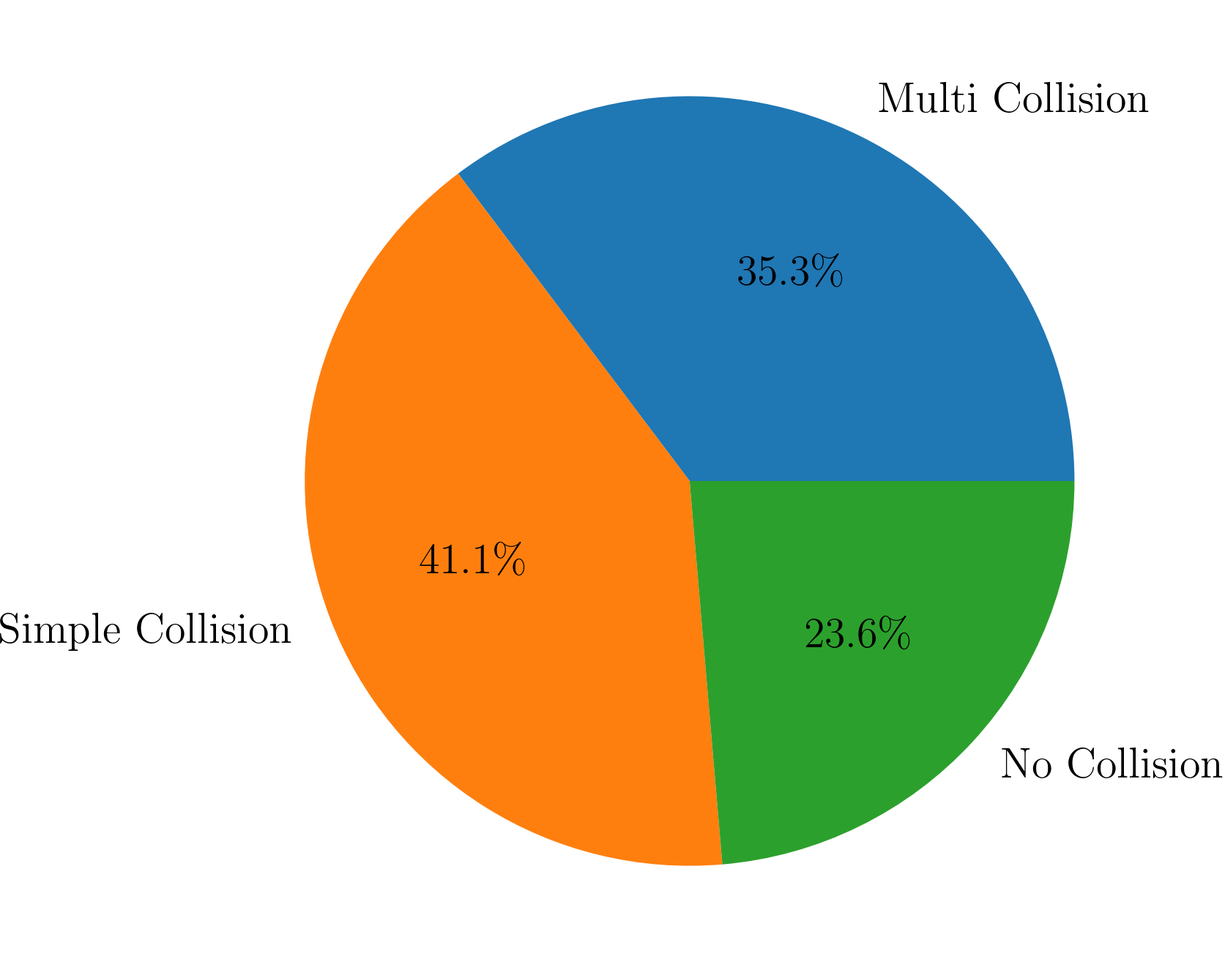
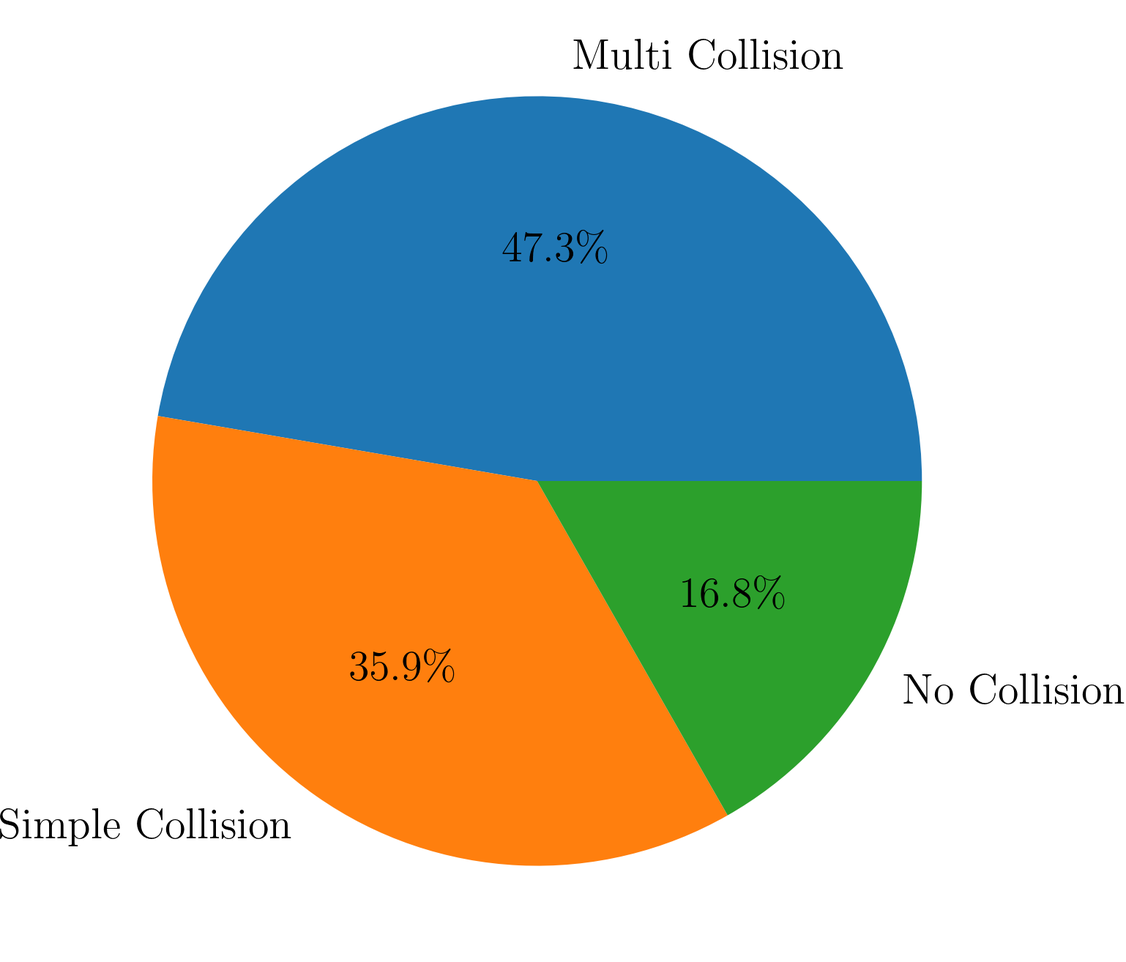
fix by-collision chart to operate on our pre-processed dataset. V1 of paper for ITSC submission complete.

diff --git a/paper.tex b/paper.tex
@@ -74,7 +74,6 @@ A Pipeline for Assembling Collision and Near-Collision Dashcam Footage Datasets
 
 
 %%%%%%%%%%%%%%%%%%%%%%%%%%%%%%%%%%%%%%%%%%%%%%%%%%%%%%%%%%%%%%%%%%%%%%%%%%%%%%%%
-\todo{Overall TODO: fix awkward sentences, grammatical issues. }
 \begin{abstract}
 
 Over the last decade, emphasis has been made on the need for autonomous vehicles to reduce road collisions and reckless driving. However, research into collision prediction has been slowed by the lack of egocentric collision-oriented datasets. Currently, this type of data is often created through computer generated scenarios \cite{Kim_Lee_Hwang_Suh_2019} due to the dangerous and costly nature of road collisions and data collection equipment. We provide a pipeline to assemble datasets of real vehicle collision events that have been published online to various video repositories. We specifically focus on collecting footage of collisions recorded from front-mounted dashcam video cameras and demonstrate the importance of learning from complex road scenes and conditions globally rather than in one region. Further, we present a small prototype dataset that we have produced using our pipeline which includes egocentric dashcam vehicle footage from all over the world, subject to varying visibilities, varying weather conditions, and varying settings.
@@ -92,15 +91,17 @@ This has led to the creation of many online communities to share videos of these
 We propose that this egocentric dashcam video stream can be leveraged by computer vision systems to act as an affordable and commonplace sensor for automated collision prediction. 
 
 In this paper we present a software pipeline to facilitate the collection, processing and annotation of egocentric dashcam videos from various online video repositories to produce datasets that can be used to train deep dashcam collision prediction models.
-We aim to generate datasets that are not constrained to any regions or countries but rather provide location-agnostic data that is representative of general, global road and vehicle conditions. \todo{Backup this claim with the location histogram, perhaps in the experiment section. If we put it there, we should reference it from here.}
+We aim to generate datasets that are not constrained to any regions or countries but rather provide location-agnostic data that is representative of general, global road and vehicle conditions.
 These datasets will also be collision-oriented as the majority of these videos contain collisions for people's viewing.
 Current autonomous vehicle data collection techniques typically require astronomically expensive hardware and equipment and, consequently, are rarely involved in collisions and intentionally not put in high risk environments that may lead to a collision.
-This is the data we hope to capture by taking advantage of existing videos of non-artificial collisions. \todo{Add sentence explaining we don't care about video resolution as long as collisions and agents are clear in the video. Further support this by the fact that we aren't using the final dense classification layer in the VGG, which in turns allows us to use videos of any resolution. }
+Thus, our goal is to capture this data by taking advantage of existing videos of real-world collisions. 
 
 The pipeline uses web-scraping techniques to fetch the video data from these websites, along with a set of video metadata, describing the video's contents.
-We use this data, in combination with the manually annotated data in order to create the collision dataset.
+We use this data, in combination with the manually annotated data in order to create a prototype collision dataset of dashcam video samples.
 This combination allows us to take advantage of the wide variety of videos available on the internet, while still having reliable data that has been curated manually.
-As part of this data, we identify participants and bystanders, both known as agents. Participants are objects that are involved in a collision identified in the metadata, while bystanders are uninvolved objects.
+As part of this data, we identify participants and bystanders, both known as agents. Participants are objects that are involved in a collision identified in the metadata, while bystanders are uninvolved objects. 
+
+It is worthwhile to note that in collecting samples for our prototype dataset, we do not impose a minimum video resolution threshold. We mitigate this by only collecting samples which contain clearly identifiable agents. This allows us to maximize the amount of data that we can feasibly include in our dataset. 
 
 %%%%%%%%%%%%%%%%%%%%%%%%%%%%%%%%%%%%%%%%%%%%%%%%%%%%%%%%%%%%%%%%%%%%%%%%%%%%%%%%
 \section{RELATED WORK}
@@ -165,8 +166,8 @@ This software module is encapsulated as a library and can be reused by importing
 
 \subsection{Annotation}
 
-In addition to collection and preprocessing, a core component of our pipeline is a GUI tool that facilitates the manual annotation of the dashcam videos, and quick manual filtering of non-dashcam and irrelevant videos. Following Chan et al.\cite{chan2016anticipating}, if a collision occurs we provide tools to annotate the frame the collision occurs, and bounding boxes to localize, identify and track agents in the video segment. Object tracking bounding boxes can be linearly interpolated from manual start and end points to improve ease of labelling. We also save the video resolution at which the video was annotated to ensure bounding box annotations can always be scaled to fit any variable download resolutions. For long-form videos that may contain multiple collision events or irrelevant video segments, such as compilation videos or videos with substantial editing and transitions, we provide a video clipping feature to demarcate the collision events from which we extract and generate distinct data points. 
-Each video segment will eventually become a metadata item. 
+In addition to collection and preprocessing, a core component of our pipeline is a GUI tool that facilitates the manual annotation of the dashcam videos, and quick manual filtering of non-dashcam and irrelevant videos. Following Chan et al.\cite{chan2016anticipating}, if a collision occurs, we provide tools to annotate the frame where the collision occurs and bounding boxes to localize, identify and track agents in the video segment. Object tracking bounding boxes can be linearly interpolated from manual start and end points to improve ease of labelling. We also save the video resolution at which the video was annotated to ensure bounding box annotations can always be scaled to fit variable download resolutions. For long-form videos that may contain multiple collision events or irrelevant video segments, such as compilation videos or videos with substantial editing and transitions, we provide a video clipping feature to demarcate the collision events from which we extract and generate distinct data points. 
+Each video segment will eventually become a metadata item. Figure \ref{fig:example_gui_tool-png} shows an example of the GUI tool in usage.
 
 \subsection{Metadata}
 After all of the previous steps have been completed, the pipeline is able to produce a complete metadata object.
@@ -198,7 +199,14 @@ There are many fields in the metadata object (as can be seen in Figure \ref{meta
   \end{itemize}
 \end{itemize}
 
-\begin{figure}
+\begin{figure}[htbp]
+	\centering
+	\includegraphics[width=0.46\textwidth]{example_gui_tool.png}
+	\caption{GUI tool to facilitate annotation}
+	\label{fig:example_gui_tool-png}
+\end{figure}
+
+\begin{figure}[htbp]
   \begin{lstlisting}[language=json,xleftmargin=5mm]
 {
   "description":"",
@@ -235,131 +243,21 @@ There are many fields in the metadata object (as can be seen in Figure \ref{meta
     \label{metadata_example}
 \end{figure}
 
-\begin{figure}[htbp]
-		\centering
-    \includegraphics[width=0.46\textwidth]{example_gui_tool.png}
-		\caption{GUI tool to facilitate annotation}
-		\label{fig:example_gui_tool-png}
-\end{figure}
-
 %%%%%%%%%%%%%%%%%%%%%%%%%%%%%%%%%%%%%%%%%%%%%%%%%%%%%%%%%%%%%%%%%%%%%%%%%%%%%%%%
 \section{EXPERIMENT}
 
-In order to evaluate the importance of acquiring data from multiple geographical locations and under varying driving conditions around the world, we have manually collected a dataset of 223 video clips on which we will test the existing collision anticipation model, DSARNN. This dataset is comprised of 97 positive and 126 negative videos. Most of these videos represent road scenes from North America, Europe and Russia which have noticeably different characteristics than those in Taiwan. To prepare our data we follow the steps outlined by Chan et. al \cite{chan2016anticipating}. Namely, we trim videos such that they are 5 seconds long, sampled at 20 FPS, and the collision occurs at frame 90. This trimming and sampling functionality is provided within the pipeline configuration \texttt{smallcorgi\_exporter.yml}. In our experiments we train the DSARNN model on features produced by running a pre-trained VGG on each full frame and the cropped objects within the frame \cite{DBLP:journals/corr/SimonyanZ14a}. This is denoted VGG+RNN+F+D-con. in the original publication. We note that this data includes manually annotated bounding boxes, so there will be no error imposed by using automated vehicle detection and localization models.
-
-In our first experiment we merge our dataset with the dataset provided by Chan et. al. We augment their training set with 77 positives and 106 negatives, and their testing set with 20 positives and 20 negatives. We use the same training procedure as Chan et. al, namely we train for 40 epochs with a learning rate of $10^{-4}$ and a batch size of 10. Although our data contribution here is relatively small, we observe a mean time-to-collision of 2.198s at 80\% recall which is very similar to the existing results from Chan et. al. However, we observe an average precision of 66.22\% which is appreciably lower than the 73.53\% average precision reported by Chan et. al. \cite{chan2016anticipating}
-
-In our second experiment we use the provided pre-trained DSARNN model and test the performance on our entire dataset of 223 videos. We see very poor prediction performance at an average precision of 34.29\%, and in Figure \ref{fig:pr_curve} we observe poor precision at all recall values.
-
-\begin{figure}[htbp]
-		\centering
-		\includegraphics[width=0.5\textwidth]{prcurve.png}
-		\caption{Pre-trained DSARNN Precision-Recall curve on prototype dataset}
-		\label{fig:pr_curve}
-\end{figure}
-
-These experiments seem to support the notion that in order for a collision prediction model to be generally effective in practice, it must be trained on collisions and complex roads scenes from varying regions and road conditions around the world, which is what we hope to achieve with this data collection pipeline.
-
+\subsection{Prototype Dataset}
+\label{section-prototype-dataset}
+In order to evaluate the importance of acquiring data from multiple geographical locations and under varying driving conditions around the world, we have built a prototype dataset of 223 video clips using our pipeline on which we will test the existing collision anticipation model, DSARNN. This dataset is comprised of 97 positive and 126 negative videos. Most of these videos represent road scenes from North America, Europe and Russia which have noticeably different characteristics than those in Taiwan. To prepare our data we follow the steps outlined by Chan et. al \cite{chan2016anticipating}. Namely, we trim videos such that they are 5 seconds long, sampled at 20 FPS, and the collision occurs at frame 90. This trimming and sampling functionality is provided within the pipeline configuration \texttt{smallcorgi\_exporter.yml}. In our experiments we train the DSARNN model on features produced by running a pre-trained VGG on each full frame and the cropped objects within the frame \cite{DBLP:journals/corr/SimonyanZ14a}. This is denoted VGG+RNN+F+D-con. in the original publication. We note that this data includes manually annotated bounding boxes, so there will be no error imposed by using automated vehicle detection and localization models.
 
 \pgfplotstableread[col sep=comma]{by-classes.csv}\byclass
 \pgfplotstableread[col sep=comma]{by-actors.csv}\byactors
 \pgfplotstableread[col sep=comma]{by-agents.csv}\byagents
 \pgfplotstableread[col sep=comma]{by-duration.csv}\byduration
 
-We have aggregated some statistics about our dataset to help clients understand various distributions in the data. While these distributions may be representative of online collision footage, they are not necessarily representative of real world collisions. 
+We have aggregated some statistics about our database and dataset to help clients understand the pertinent distributions in the data. While these distributions may be representative of online collision footage, they are not necessarily representative of real world collisions. Note that the total number of videos represented by the histograms is a superset of the number of videos in the final prototype dataset as it includes videos that were ultimately unsuitable for our collision prediction experiments. Thus we denote this superset as the \textit{pre-processed prototype dataset}.
 
-\begin{figure}[htbp]
-		\centering
-    \begin{tikzpicture}
-    \begin{axis}[
-      title={Objects by class},
-      ylabel={Frequency (\# of objects)},
-      ymin=-50,
-      ymax=1800,
-      xtick=data,
-      xticklabels from table={\byclass}{X},
-      xticklabel style={rotate=50,anchor=east,yshift=-2mm}
-    ]
-    \addplot[fill, ybar] table [x expr=\coordindex, y={Y}] \byclass;
-    \end{axis}
-    \end{tikzpicture}
-		\caption{Distribution of videos in dataset by object class}
-		\label{fig:obj-by-class}
-\end{figure}
-
-\begin{figure}[htbp]
-		\centering
-    \begin{tikzpicture}
-    \begin{axis}[
-      title={Videos by participant},
-      xlabel={Number of participants},
-      ylabel={Frequency (\# of videos)},
-      ymin=-5,
-      ymax=175,
-      xtick=data,
-      xticklabels from table={\byactors}{X}
-    ]
-    \addplot[fill, ybar] table [x expr=\coordindex, y={Y}] \byactors;
-    \end{axis}
-    \end{tikzpicture}
-		\caption{Distribution of videos in dataset by number of participants}
-		\label{fig:vids-by-participant}
-\end{figure}
-
-\begin{figure}[htbp]
-		\centering
-    \begin{tikzpicture}
-    \begin{axis}[
-      title={Videos by agents},
-      xlabel={Number of agents},
-      ylabel={Frequency (\# of videos)},
-      ymin=-10,
-      ymax=270,
-      xtick=data,
-      xticklabels from table={\byagents}{X}
-    ]
-    \addplot[fill, ybar] table [x expr=\coordindex, y={Y}] \byagents;
-    \end{axis}
-    \end{tikzpicture}
-		\caption{Distribution of videos in dataset by number of agents}
-		\label{fig:vids-by-agents}
-\end{figure}
-
-\begin{figure}[htbp]
-		\centering
-    \begin{tikzpicture}
-    \begin{axis}[
-      title={Videos by duration},
-      xlabel={Duration (in frames)},
-      ylabel={Frequency (\# of videos)},
-      xtick=data,
-      ymin=-5,
-      ymax=130,
-      xticklabels from table={\byduration}{X},
-      xticklabel style = {rotate=45,anchor=east,yshift=-2mm}
-    ]
-    \addplot[fill, ybar] table [x expr=\coordindex, y={Y}] \byduration;
-    \end{axis}
-    \end{tikzpicture}
-		\caption{Distribution of videos in dataset by duration}
-		\label{fig:vids-by-duration}
-\end{figure}
-
-\begin{figure}[htbp]
-		\centering
-    \includegraphics[width=0.46\textwidth,trim={0 1cm 0 0.5cm},clip]{by-collision.png}
-		\caption{Distribution of videos in database by collision type}
-		\label{fig:vids-by-collision}
-\end{figure}
-
-\begin{figure}[htbp]
-		\centering
-    \includegraphics[width=0.46\textwidth,trim={0 1cm 0 1cm},clip]{by-camera.png}
-		\caption{Distribution of videos in database by camera type}
-		\label{fig:vids-by-camera}
-\end{figure}
-
-\begin{table}[htbp]
+\begin{table}[!h]
 	\caption{Distribution of videos in database by download source}
 	\label{vids-by-source}
 	\begin{center}
@@ -367,7 +265,7 @@ We have aggregated some statistics about our dataset to help clients understand 
 			\hline
 			Download source & Percentage of videos \\
 			\hline
-			youtube.com & 98.40\% \\
+			youtube.com & \textbf{98.40\%} \\
 			\hline
 			imgur.com & 0.85\% \\
 			\hline
@@ -379,8 +277,8 @@ We have aggregated some statistics about our dataset to help clients understand 
 	\end{center}
 \end{table}
 
-\begin{table}[htbp]
-	\caption{Distribution of videos in dataset by geographical region}
+\begin{table}[!h]
+	\caption{Distribution of videos in pre-processed prototype dataset by geographical region}
 	\label{vids-by-region}
 	\begin{center}
 		\begin{tabular}{|c|c|}
@@ -401,14 +299,125 @@ We have aggregated some statistics about our dataset to help clients understand 
 	\end{center}
 \end{table}
 
-\todo{Organize figures better, crop out excess whitespace, resize them and place them within the column of the page.}
-\todo{Explain the "other" category in the class histogram. These are stationary/non-vehicular objects.}
-\todo{Explain the distinctions between the different types of collisions in the collision chart.}
-\todo{Add Figure 11 (table) showing videos by source (98.4\% YouTube, 0.47\% gfycat.com, 0.85\% imgur.com, 0.28\% streamable.com)}
-\todo{Move Figures 5-11 to Methodology - Video Collection.}
-\todo{Reduce caption size for each figure.}
-\todo{Add a paragraph explaining the key characteristics of Figures 5-11.}
+From Table \ref{vids-by-source}, it is clear that the vast majority of videos that have been processed through our pipeline and cataloged in our database were obtained from YouTube. It can also be seen that the YouTube and Reddit downloaders are capable of scraping various other online repositories such as Imgur, Gfycat and Streamable. 
 
+From Table \ref{vids-by-region}, we can see that our prototype dataset consists of dashcam footage from a reasonably well-balanced distribution of geographical regions. This also implies a diverse representation in driving conditions due to the various differences in climate and infrastructure amongst these regions.
+
+\begin{figure}[!h]
+	\centering
+	\begin{tikzpicture}
+	\begin{axis}[
+	title={Objects by class},
+	ylabel={Frequency (\# of objects)},
+	ymin=-50,
+	ymax=1800,
+	xtick=data,
+	xticklabels from table={\byclass}{X},
+	xticklabel style={rotate=50,anchor=east,yshift=-2mm}
+	]
+	\addplot[fill, ybar] table [x expr=\coordindex, y={Y}] \byclass;
+	\end{axis}
+	\end{tikzpicture}
+	\caption{Distribution of videos in pre-processed prototype dataset by object class}
+	\label{fig:obj-by-class}
+\end{figure}
+
+\begin{figure}[!h]
+	\centering
+	\begin{tikzpicture}
+	\begin{axis}[
+	title={Videos by participant},
+	xlabel={Number of participants},
+	ylabel={Frequency (\# of videos)},
+    ymin=-5,
+	ymax=175,
+	xtick=data,
+	xticklabels from table={\byactors}{X}
+	]
+	\addplot[fill, ybar] table [x expr=\coordindex, y={Y}] \byactors;
+	\end{axis}
+	\end{tikzpicture}
+	\caption{Distribution of videos in pre-processed prototype dataset by number of participants}
+	\label{fig:vids-by-participant}
+\end{figure}
+
+In Figure \ref{fig:obj-by-class}, we see that there are several types of objects which have been identified as agents in our prototype dataset. Among these, the most common are motorized vehicles and pedestrians as one would intuitively expect. A number of stationary, inanimate objects such as industrial machinery and poles were noteworthy as they were involved in collisions. These have been aggregated into the "other" category.
+
+In Figure \ref{fig:vids-by-participant}, it can be seen that there is a wide range in the distribution of the number of participants in each sample of our dataset. We also observe that it is more common for no collisions to occur than any particular non-zero number of participants to be present in a sample.
+
+In Figure \ref{fig:vids-by-agents}, we observe that it is most common for samples to contain either 2 agents or no agents at all. This is implied by the fact that videos with only 1 agent cannot contain a collision. These are less likely to be interesting and in turn, scraped by our pipeline.
+
+\begin{figure}[!h]
+	\centering
+	\begin{tikzpicture}
+	\begin{axis}[
+	title={Videos by agents},
+	xlabel={Number of agents},
+	ylabel={Frequency (\# of videos)},
+    ymin=-10,
+	ymax=270,
+	xtick=data,
+	xticklabels from table={\byagents}{X}
+	]
+	\addplot[fill, ybar] table [x expr=\coordindex, y={Y}] \byagents;
+	\end{axis}
+	\end{tikzpicture}
+	\caption{Distribution of videos in prototype dataset by number of agents}
+	\label{fig:vids-by-agents}
+\end{figure}
+
+In Figure \ref{fig:vids-by-duration}, we can clearly see that there is a roughly standard normal distribution in the number of videos by duration, with a mean, median and mode at around 352 frames. This suggests that the pipeline favors videos which tend to be shorter on average. At an average video framerate of 30 FPS, this equates to a mean duration of just over 11 seconds. In section \ref{section-prototype-dataset}, it was mentioned that clips were cropped to 5 seconds in the prototype dataset, therefore this is a favorable characteristic as it helps reduce the amount of necessary processing.
+
+\begin{figure}[!h]
+	\centering
+	\begin{tikzpicture}
+	\begin{axis}[
+	title={Videos by duration},
+	xlabel={Duration (in frames)},
+	ylabel={Frequency (\# of videos)},
+	xtick=data,
+    ymin=-5,
+	ymax=130,
+	xticklabels from table={\byduration}{X},
+	xticklabel style = {rotate=45,anchor=east,yshift=-2mm}
+	]
+	\addplot[fill, ybar] table [x expr=\coordindex, y={Y}] \byduration;
+	\end{axis}
+	\end{tikzpicture}
+	\caption{Distribution of videos in prototype dataset by duration}
+	\label{fig:vids-by-duration}
+\end{figure}
+
+Figures \ref{fig:vids-by-collision} and \ref{fig:vids-by-camera} outline key characteristics about our database at large. Figure \ref{fig:vids-by-collision} shows that from the video repositories we targeted, we were able to obtain a relatively well-balanced distribution of collision types in our data. Here, the distinction between 'Simple Collision' and 'Multi Collision' is that the former involves 2 participants and the latter involves more than 2 participants. Figure \ref{fig:vids-by-camera} shows that the majority of the videos the pipeline scraped were indeed dashcam videos. This suggests that the pipeline is quite effective in identifying suitable candidates for a dashcam collision dataset.
+
+\begin{figure}[!h]
+	\centering
+	\includegraphics[width=0.46\textwidth,trim={0 1cm 0 0},clip]{by-collision.png}
+	\caption{Distribution of videos in database by collision type}
+	\label{fig:vids-by-collision}
+\end{figure}
+
+\begin{figure}[!h]
+	\centering
+	\includegraphics[width=0.46\textwidth,trim={0 1cm 0 1cm},clip]{by-camera.png}
+	\caption{Distribution of videos in database by camera type}
+	\label{fig:vids-by-camera}
+\end{figure}
+
+\subsection{Collision Prediction Model Training and Analysis}
+\label{section-collision-prediction}
+In our first experiment we merge our dataset with the dataset provided by Chan et. al. We augment their training set with 77 positives and 106 negatives, and their testing set with 20 positives and 20 negatives. We use the same training procedure as Chan et. al, namely we train for 40 epochs with a learning rate of $10^{-4}$ and a batch size of 10. Although our data contribution here is relatively small, we observe a mean time-to-collision of \textbf{2.198s} at \textbf{80\%} recall which is very similar to the existing results from Chan et. al. However, we observe an average precision of 66.22\% which is appreciably lower than the 73.53\% average precision reported by Chan et. al. \cite{chan2016anticipating}
+
+In our second experiment we use the provided pre-trained DSARNN model and test the performance on our entire dataset of 223 videos. We see very poor prediction performance at an average precision of 34.29\%, and in Figure \ref{fig:pr_curve} we observe poor precision at all recall values.
+
+\begin{figure}[!htbp]
+		\centering
+		\includegraphics[width=0.5\textwidth]{prcurve.png}
+		\caption{Pre-trained DSARNN Precision-Recall curve on prototype dataset}
+		\label{fig:pr_curve}
+\end{figure}
+
+These experiments support the notion that in order for a collision prediction model to be generally effective in practice, it must be trained on collisions and complex roads scenes from varying regions and road conditions around the world, which is what we hope to achieve with this data collection pipeline.
 
 %%%%%%%%%%%%%%%%%%%%%%%%%%%%%%%%%%%%%%%%%%%%%%%%%%%%%%%%%%%%%%%%%%%%%%%%%%%%%%%%
 %\section{CONCLUSION}
@@ -421,9 +430,9 @@ We have aggregated some statistics about our dataset to help clients understand 
 
 There are many ways that we could improve our system, such as the following:
 \begin{enumerate}
-\item Labelling precision improvements: The current video-labelling process in the pipeline, manual bounding box drawing with linear interpolation between input frames, is prone to inserting mistaken bounding boxes that don't exactly match to the location of an object on certain frames. Automated labelling and custom interpolation would speed up the process of labelling and minimize the cases of misplaced bounding boxes. Labelling would be much faster if we had a semi-automated process of detecting objects and tracking them over frames. There are models for object detection that behave reasonably well which we could use, but they would still need to be augmented by a review process. For object tracking, there are simple heuristic algorithms that could be used. Being able to modify the method of interpolation between frames beyond the default linear interpolation would allow for more bounding box precision between large input frame windows. Moreover, given a type of interpolation is stored in the metadata, we probably shouldn't store all interpolated frames, rather than just the ones the user has entered. While linear interpolation works great for entering a frame every 10 frames, supporting more interpolations could be great for faster data entry, or even for supporting affine transformations on more complex bounds.
+\item \textbf{Labelling precision improvements:} The current video-labelling process in the pipeline, manual bounding box drawing with linear interpolation between input frames, is prone to inserting mistaken bounding boxes that don't exactly match to the location of an object on certain frames. Automated labelling and custom interpolation would speed up the process of labelling and minimize the cases of misplaced bounding boxes. Labelling would be much faster if we had a semi-automated process of detecting objects and tracking them over frames. There are models for object detection that behave reasonably well which we could use, but they would still need to be augmented by a review process. For object tracking, there are simple heuristic algorithms that could be used. Being able to modify the method of interpolation between frames beyond the default linear interpolation would allow for more bounding box precision between large input frame windows. Moreover, given a type of interpolation is stored in the metadata, we probably shouldn't store all interpolated frames, rather than just the ones the user has entered. While linear interpolation works great for entering a frame every 10 frames, supporting more interpolations could be great for faster data entry, or even for supporting affine transformations on more complex bounds.
 
-\item Complete Location-Varied Dataset: Our next step is to enlarge our existing dataset of car collisions from regions all over the world, which would then use solely to form a training set and testing set for our next experiment. We could then compare the results of this experiment with location-varied data to the results from the dataset collected in Taiwan by Chan et. al.
+\item \textbf{Complete Location-Varied Dataset:} Our next step is to enlarge our existing dataset of car collisions from regions all over the world, which would then use solely to form a training set and testing set for our next experiment. We could then compare the results of this experiment with location-varied data to the results from the dataset collected in Taiwan by Chan et. al.
 
 \end{enumerate}
 

diff --git a/scripts/make_by-collision.py b/scripts/make_by-collision.py
@@ -12,7 +12,7 @@ SIMPLE_COLLISION_LABEL = "Simple\ Collision"
 
 def pie_by_collision(hist, data):
     (key, data) = data
-    if not data.get('enum_tags'):
+    if data.get('is_cancelled', True) or not data.get('enum_tags'):
         return hist
     enum_tags = data['enum_tags']
     if 'MultiCollision' in enum_tags:
